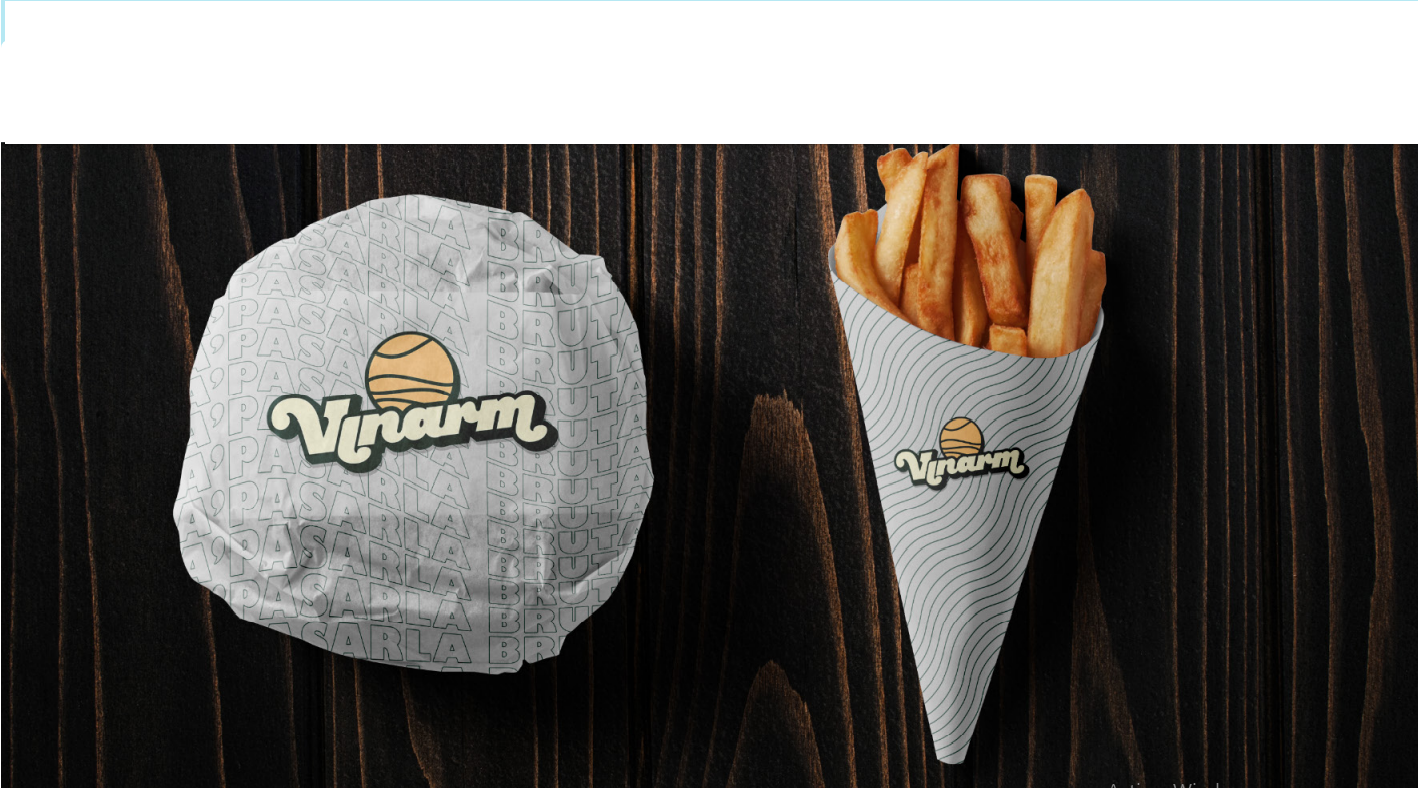
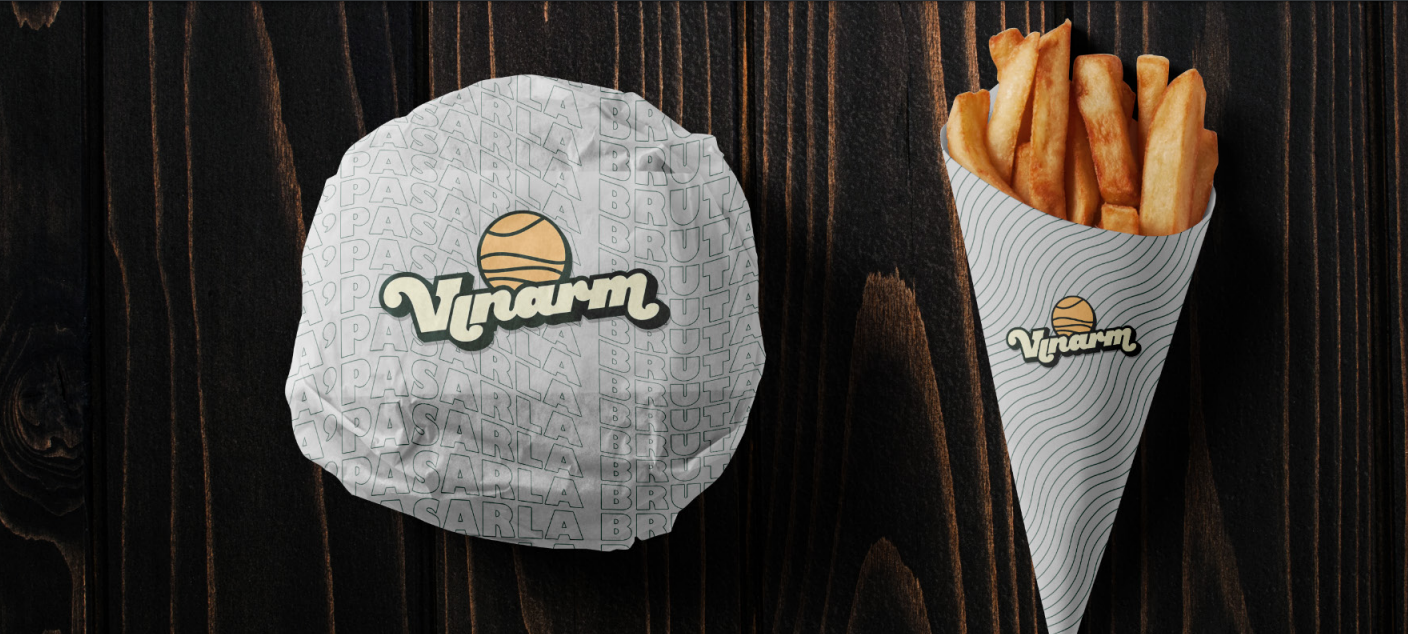
hero section cambios

diff --git a/src/components/Header.tsx b/src/components/Header.tsx
@@ -7,19 +7,19 @@ import Navbar from './Navbar'
 const Header = () => {
   return (
     <div>
-      <header className="fixed top-0 z-50 h-[140px] w-full max-w-[1920px] bg-vinarmBlack text-vinarmYellow transition-all lg:h-[102px]">
+      <header className="fixed top-0 z-50 h-[130px] w-full max-w-[1920px] bg-vinarmBlack text-vinarmYellow transition-all lg:h-[122px]">
         <div className="container mx-auto h-full flex flex-col justify-between items-center lg:flex-row ">
           <Link href="/">
             <Image
               src={logo}
               alt="logo vinarm"
-              width={100}
+              width={200}
               height={90}
               className="h-[80px] mt-2 lg:h-[90px] "
             />
           </Link>
 
-          <MobileNav containerStyles="capitalize gap-4 fixed flex font-extrabold z-30 mt-28  md:text-xl lg:hidden" />
+          <MobileNav containerStyles="capitalize gap-4 fixed flex font-extrabold z-30 mt-24  md:text-xl lg:hidden" />
           <Navbar containerStyles="capitalize flex gap-4 hidden font-extrabold  lg:flex" />
         </div>
       </header>

diff --git a/src/components/HeroSection.tsx b/src/components/HeroSection.tsx
@@ -1,6 +1,6 @@
 const HeroSection = () => {
   return (
-    <section className="h-[50vh] lg:h-[75vh] mt-32 lg:mt-24 w-full flex justify-center items-center font-montserrat bg-hero bg-center lg:bg-center bg-cover bg-no-repeat ">
+    <section className="h-[50vh] lg:h-[75vh] mt-32 lg:mt-28 w-full flex justify-center items-center font-montserrat bg-hero bg-right bg-cover bg-no-repeat ">
       HeroSection
     </section>
   )

diff --git a/tailwind.config.ts b/tailwind.config.ts
@@ -21,7 +21,7 @@ const config = {
       montserrat: 'var(--font-montserrat)',
     },
     backgroundImage: {
-      hero: 'url(/Vinarm/foto1.png)',
+      hero: 'url(/Vinarm/hero.png)',
       combo: 'url(/Vinarm/logoreal.png)',
     },
     extend: {

diff --git a/src/components/AboutSection.tsx b/src/components/AboutSection.tsx
@@ -1,4 +1,4 @@
 const AboutSection = () => {
-  return <div>AboutSection</div>
+  return <section className="bg-vinarmGreen h-[100vh]">AboutSection</section>
 }
 export default AboutSection
